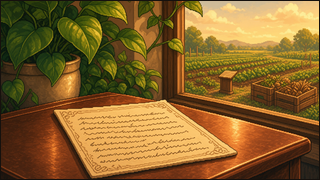
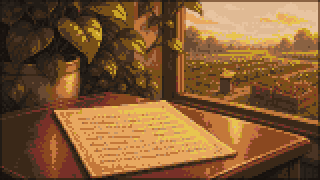
One look: painted plates redrawn on the pixel grid, and a painted backdrop replaced by the lake scene
The game had two art styles. Rooms, people and the desktop are pixel
art. Eleven plates the game still loads were soft painted pictures,
and the backdrop behind the title, brief and end-of-day screens was a
painted video.

tools/artkit/pixelize.py redraws those eleven plates at 160 x 90 on
the locked palette and writes them at 320 x 180 with hard edges. The
check mode fails if a shipped plate has an off-palette pixel. The
painted originals move to reference/painted/ and are not shipped.

The backdrop is now the code-painted lake scene the desktop uses, in
the season the player set. LakeScene.tsx holds it for both. The video
and its poster move to reference/painted/. Plates and stills are never
smoothed when scaled.

Claude-Session: https://claude.ai/code/session_01Ce2Jk4nEefyAaAitW7e5GU

diff --git a/src/game/GameApp.tsx b/src/game/GameApp.tsx
@@ -37,6 +37,8 @@ import { ReactorBuilder } from "./ReactorBuilder";
 import { FuelShuffle } from "./FuelShuffle";
 import { MaintGame } from "./MaintGame";
 import { Desktop } from "./Desktop";
+import { LakeScene } from "./LakeScene";
+import { seasonOrDefault, type Season } from "./parlorOS";
 import { maintenanceSteamOn } from "./steamRule";
 import { applyWorldKey, CABINET_MODES, getKeyOwner, setKeyOwner } from "./keyGate";
 import { BootLog, SetupScreen } from "./ParlorApps";
@@ -1110,7 +1112,7 @@ export function GameApp() {
 
       <div ref={wrapRef} className="relative min-h-0 flex-1">
         {!playing && !deskShown && !(ART.menu && (mode === "role" || mode === "intro" || mode === "brief")) && (
-          <MenuBackdrop />
+          <MenuBackdrop season={seasonOrDefault(s.setup.season)} />
         )}
 
         <canvas
@@ -2634,33 +2636,7 @@ function MiniMap({
   );
 }
 
-function MenuBackdrop({ scene, focus = "50% 50%", zoom = 1 }: { scene?: string; focus?: string; zoom?: number }) {
-  const videoRef = useRef<HTMLVideoElement>(null);
-  const [reduce, setReduce] = useState(false);
-  const [live, setLive] = useState(false);
-  useEffect(() => {
-    const mq = window.matchMedia("(prefers-reduced-motion: reduce)");
-    const sync = () => setReduce(mq.matches);
-    sync();
-    mq.addEventListener("change", sync);
-    return () => mq.removeEventListener("change", sync);
-  }, []);
-  useEffect(() => {
-    const v = videoRef.current;
-    if (!v || reduce) return;
-    const play = () => {
-      v.muted = true;
-      void v.play().catch(() => {});
-    };
-    play();
-    const unlock = () => play();
-    window.addEventListener("pointerdown", unlock, { once: true });
-    window.addEventListener("keydown", unlock, { once: true });
-    return () => {
-      window.removeEventListener("pointerdown", unlock);
-      window.removeEventListener("keydown", unlock);
-    };
-  }, [reduce]);
+function MenuBackdrop({ scene, focus = "50% 50%", zoom = 1, season = "fall" }: { scene?: string; focus?: string; zoom?: number; season?: Season }) {
   return (
     <div className="pointer-events-none absolute inset-0 z-0 overflow-hidden bg-bg">
       {scene ? (
@@ -2672,31 +2648,7 @@ function MenuBackdrop({ scene, focus = "50% 50%", zoom = 1 }: { scene?: string; 
           style={{ objectPosition: focus, transform: `scale(${zoom})`, transformOrigin: focus }}
         />
       ) : (
-        <>
-          {(!live || reduce) && (
-            <img
-              src="/art/gen/stills/plate_lake.png?v=waveF"
-              alt=""
-              className="absolute inset-0 h-full w-full object-cover"
-            />
-          )}
-          {!reduce && (
-            <video
-              ref={videoRef}
-              className="absolute inset-0 h-full w-full object-cover"
-              autoPlay
-              loop
-              muted
-              playsInline
-              preload="auto"
-              poster="/art/menu-still.jpg"
-              onPlaying={() => setLive(true)}
-              onError={() => setLive(false)}
-            >
-              <source src="/art/menu-loop.mp4" type="video/mp4" />
-            </video>
-          )}
-        </>
+        <LakeScene season={season} testId="lake-backdrop" />
       )}
       <div className="absolute inset-0 bg-gradient-to-t from-bg/80 via-bg/25 to-bg/30" />
     </div>

diff --git a/src/game/Desktop.tsx b/src/game/Desktop.tsx
@@ -38,7 +38,7 @@ import {
 } from "./deskWindows";
 import { particleCount, makePool, stepPool, type Particle } from "./particles";
 import { setKeyOwner } from "./keyGate";
-import { WALL_NATIVE_H, WALL_NATIVE_W, paintWallpaper } from "./wallpaper";
+import { LakeScene } from "./LakeScene";
 import { AppBody, type AppCtx } from "./ParlorApps";
 import { AppGlyph } from "./icons/glyphs";
 import type { DesktopSave, GameState, Mode, ResultsSave } from "./sim";
@@ -287,7 +287,7 @@ export function Desktop(props: DesktopProps) {
         } as CSSProperties
       }
     >
-      <WallPaper season={season} />
+      <LakeScene season={season} testId="wallpaper" />
       <ParticleLayer kind={info.particle} active={shown && !d.reducedMotion} />
 
       {phone ? (
@@ -389,37 +389,6 @@ export function Desktop(props: DesktopProps) {
 }
 
 /* ---------------------------------------------------------------- pieces */
-
-function WallPaper({ season }: { season: Season }) {
-  const ref = useRef<HTMLCanvasElement>(null);
-  useEffect(() => {
-    const c = ref.current;
-    const host = c?.parentElement;
-    if (!c || !host) return;
-    const paint = () => {
-      // Layout size, not the on-screen box: the desk can be mid-transition when this runs.
-      const w = Math.max(1, host.clientWidth);
-      const hgt = Math.max(1, host.clientHeight);
-      // Whole-number scale: every painted pixel covers the same number of screen pixels.
-      const scale = Math.max(1, Math.round(Math.min(hgt / WALL_NATIVE_H, w / WALL_NATIVE_W)));
-      const nw = Math.ceil(w / scale);
-      const nh = Math.ceil(hgt / scale);
-      c.width = nw;
-      c.height = nh;
-      c.style.width = `${nw * scale}px`;
-      c.style.height = `${nh * scale}px`;
-      const g = c.getContext("2d");
-      if (!g) return;
-      g.imageSmoothingEnabled = false;
-      paintWallpaper(g, nw, nh, season);
-    };
-    paint();
-    const ro = new ResizeObserver(paint);
-    ro.observe(host);
-    return () => ro.disconnect();
-  }, [season]);
-  return <canvas ref={ref} aria-hidden data-testid="wallpaper" className="pointer-events-none absolute left-0 top-0" style={{ imageRendering: "pixelated" }} />;
-}
 
 /** One canvas, one pool, pixel squares. Paused when not shown. Empty under reduced motion. */
 function ParticleLayer({ kind, active }: { kind: "rain" | "heat" | "leaves" | "snow"; active: boolean }) {

diff --git a/src/game/LakeScene.tsx b/src/game/LakeScene.tsx
@@ -1,0 +1,40 @@
+"use client";
+
+import { useEffect, useRef } from "react";
+import type { Season } from "./parlorOS";
+import { WALL_NATIVE_H, WALL_NATIVE_W, paintWallpaper } from "./wallpaper";
+
+/**
+ * The lake and the plant, painted by code at a whole-number scale. It fills its parent.
+ * The desktop uses it as the wallpaper. The screens outside a room use it as the backdrop.
+ */
+export function LakeScene({ season, testId }: { season: Season; testId?: string }) {
+  const ref = useRef<HTMLCanvasElement>(null);
+  useEffect(() => {
+    const c = ref.current;
+    const host = c?.parentElement;
+    if (!c || !host) return;
+    const paint = () => {
+      // Layout size, not the on-screen box: the parent can be mid-transition when this runs.
+      const w = Math.max(1, host.clientWidth);
+      const hgt = Math.max(1, host.clientHeight);
+      // Whole-number scale: every painted pixel covers the same number of screen pixels.
+      const scale = Math.max(1, Math.round(Math.min(hgt / WALL_NATIVE_H, w / WALL_NATIVE_W)));
+      const nw = Math.ceil(w / scale);
+      const nh = Math.ceil(hgt / scale);
+      c.width = nw;
+      c.height = nh;
+      c.style.width = `${nw * scale}px`;
+      c.style.height = `${nh * scale}px`;
+      const g = c.getContext("2d");
+      if (!g) return;
+      g.imageSmoothingEnabled = false;
+      paintWallpaper(g, nw, nh, season);
+    };
+    paint();
+    const ro = new ResizeObserver(paint);
+    ro.observe(host);
+    return () => ro.disconnect();
+  }, [season]);
+  return <canvas ref={ref} aria-hidden data-testid={testId} className="pointer-events-none absolute left-0 top-0 max-w-none" style={{ imageRendering: "pixelated" }} />;
+}

diff --git a/src/styles.css b/src/styles.css
@@ -823,6 +823,12 @@
   background: #b85c4a;
   box-shadow: 16px 0 0 #c9a227, 32px 0 0 #6b8f71;
 }
+/* Plates and stills are pixel art. Never smooth them when they are scaled. */
+img[src*="/art/gen/stills/"],
+video[poster*="/art/gen/stills/"] {
+  image-rendering: pixelated;
+}
+
 /* Inside a desktop window the window is the frame. The cabinet and the bench drop their own. */
 .desk-sim-body .cab-shell {
   padding: 0;

diff --git a/tools/artkit/pixelize.py b/tools/artkit/pixelize.py
@@ -1,0 +1,90 @@
+#!/usr/bin/env python3
+"""Redraw a painted plate on the game's pixel grid and locked palette.
+
+The game has two looks: code-drawn pixel art, and painted plates. This puts the painted
+plates the game still loads onto the same grid and the same colours as everything else.
+
+Each source is box-sampled to 160 x 90, every pixel is snapped to the nearest colour in
+src/game/palette.ts, and the result is written at 320 x 180 with hard pixel edges.
+No dither. The painted originals are kept under reference/painted/ and are not shipped.
+
+Usage: python3 tools/artkit/pixelize.py            (all plates in PLATES)
+       python3 tools/artkit/pixelize.py --check    (exit 1 if a shipped plate is off-palette)
+"""
+import re
+import sys
+from pathlib import Path
+
+from PIL import Image
+
+ROOT = Path(__file__).resolve().parents[2]
+STILLS = ROOT / "public/art/gen/stills"
+KEEP = ROOT / "reference/painted"
+NATIVE = (160, 90)
+OUT = (320, 180)
+
+PLATES = [
+    "plate_lake.png",
+    "plate_culture.png",
+    "plate_alara.png",
+    "plate_dt.png",
+    "plate_export.png",
+    "plate_shuffle.png",
+    "term_clad.png",
+    "term_mod.png",
+    "term_cool.png",
+    "term_vessel.png",
+    "term_refl.png",
+]
+
+
+def palette():
+    text = (ROOT / "src/game/palette.ts").read_text()
+    block = text[text.index("export const PAL") : text.index("} as const")]
+    return sorted(set(re.findall(r'"#([0-9a-fA-F]{6})"', block)))
+
+
+def palette_image(cols):
+    flat = []
+    for c in cols:
+        flat += [int(c[0:2], 16), int(c[2:4], 16), int(c[4:6], 16)]
+    img = Image.new("P", (1, 1))
+    img.putpalette(flat + flat[:3] * (256 - len(cols)))
+    return img
+
+
+def convert(src: Path, pal) -> Image.Image:
+    im = Image.open(src).convert("RGB")
+    small = im.resize(NATIVE, Image.Resampling.BOX)
+    snapped = small.quantize(palette=pal, dither=Image.Dither.NONE).convert("RGB")
+    return snapped.resize(OUT, Image.Resampling.NEAREST)
+
+
+def off_palette(path: Path, cols) -> int:
+    allowed = {(int(c[0:2], 16), int(c[2:4], 16), int(c[4:6], 16)) for c in cols}
+    im = Image.open(path).convert("RGB")
+    return sum(n for n, rgb in im.getcolors(maxcolors=1 << 24) if rgb not in allowed)
+
+
+def main():
+    cols = palette()
+    pal = palette_image(cols)
+    if "--check" in sys.argv:
+        bad = 0
+        for name in PLATES:
+            n = off_palette(STILLS / name, cols)
+            print(f"{name} off-palette pixels {n}")
+            bad += 1 if n else 0
+        sys.exit(1 if bad else 0)
+    KEEP.mkdir(parents=True, exist_ok=True)
+    for name in PLATES:
+        kept = KEEP / name
+        if not kept.exists():
+            kept.write_bytes((STILLS / name).read_bytes())
+        out = convert(kept, pal)
+        out.save(STILLS / name, optimize=True)
+        print(f"{name} {out.size[0]}x{out.size[1]} colours {len(out.getcolors(maxcolors=4096))}")
+
+
+if __name__ == "__main__":
+    main()
